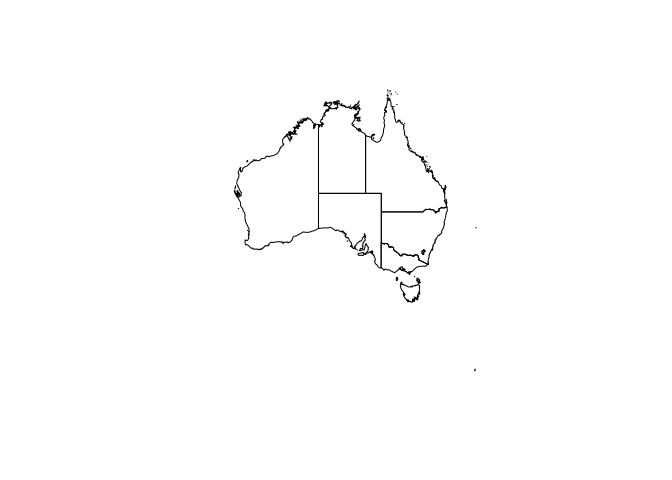
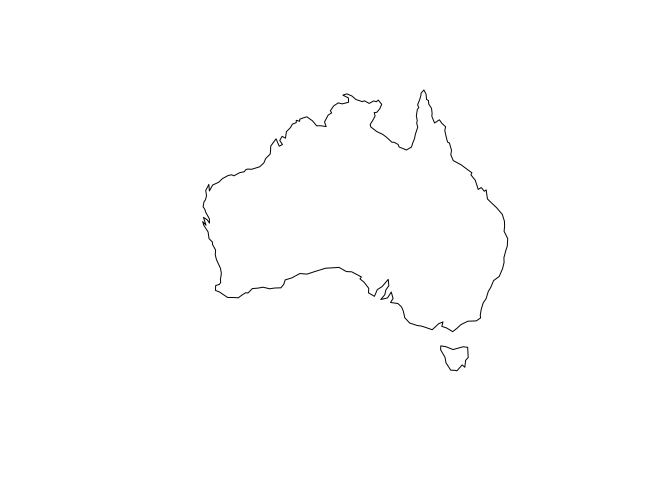
rebuild readme

diff --git a/README.md b/README.md
@@ -46,9 +46,7 @@ ozmap()
 Plot Australia without states.
 
 ``` r
-ozmap(states = FALSE)
-#> Warning in ozmap(states = FALSE): states argument is deprecated, see
-#> 'oz::oz()' function
+ozmap(x = "country")
 ```
 
 <img src="man/figures/README-unnamed-chunk-4-1.png" width="100%" />
